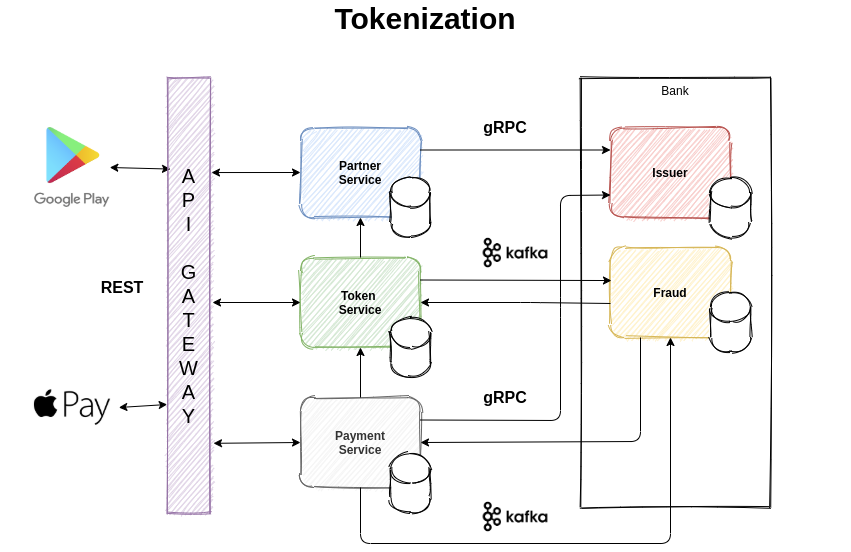
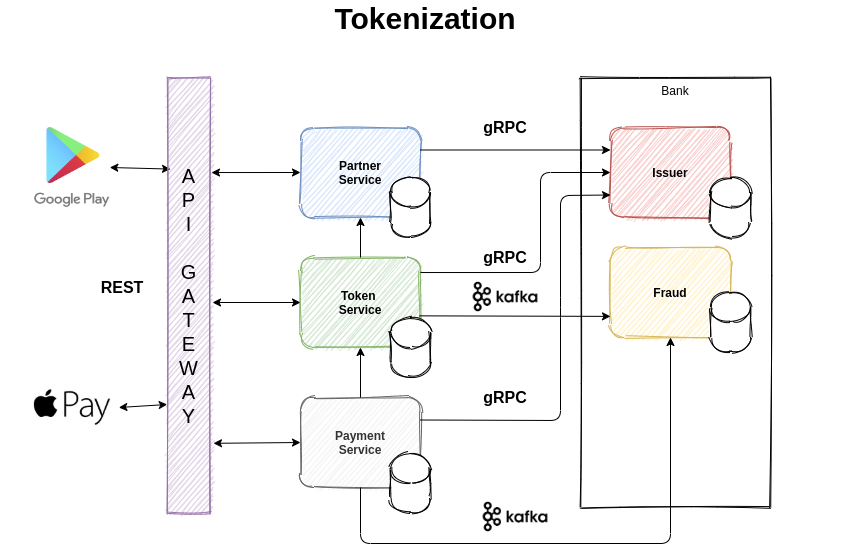
Tokenization | Tokenização - Parte IV

Changed region(s): [[0.4888, 0.4312, 0.7333, 0.5851]]

diff --git a/desafio-02/02-token/025-tokenizacao-parte-IV.md b/desafio-02/02-token/025-tokenizacao-parte-IV.md
@@ -1,0 +1,28 @@
+# Tokenização - Parte IV
+
+## Necessidades
+
+No fluxo de [tokenização](005-tokenizacao-parte-I.md) recebemos os dados do cartão e do(a) parceiro(a), porém, precisamos 
+enviar **assincronamente** para o sistema de **fraude** analisar tal ação. 
+   
+## Restrições
+
+Devemos fornecer os seguintes dados:
+
+- Identificador do token
+
+- A hora e data em UTC da geração do token
+
+- URL da [API de Lifecycle](020-token-lifecycle.md), caso seja identificado uma fraude será chamado essa API para bloquear o Token.
+
+- Método HTTP da [API de Lifecycle](020-token-lifecycle.md)
+
+## Resultado Esperado
+
+- Em caso de sucesso, o token deve ser armazenado no sistema, com um identificador gerado pelo sistema não sequencial.
+
+- Em caso de erro, deve ser retornado o erro específicos.
+
+## Informações de suporte
+
+## Sugestões de busca de conteúdo

diff --git a/desafio-02/02-token/005-tokenizacao-parte-I.md b/desafio-02/02-token/005-tokenizacao-parte-I.md
@@ -15,6 +15,11 @@ Devemos receber os seguintes dados:
 - Data de expiração do cartão no formato MMYY deve ser obrigatório.
 - Código de verificação (CVV) do cartão deve ser obrigatório.
 
+Devemos armazenar os seguintes dados:
+
+- Todos os dados que recebemos na requisição
+- A hora e data em UTC da operação
+
 **Lembre-se** devemos utilizar as boas práticas de integração utilizada.
 
 ## Resultado Esperado
